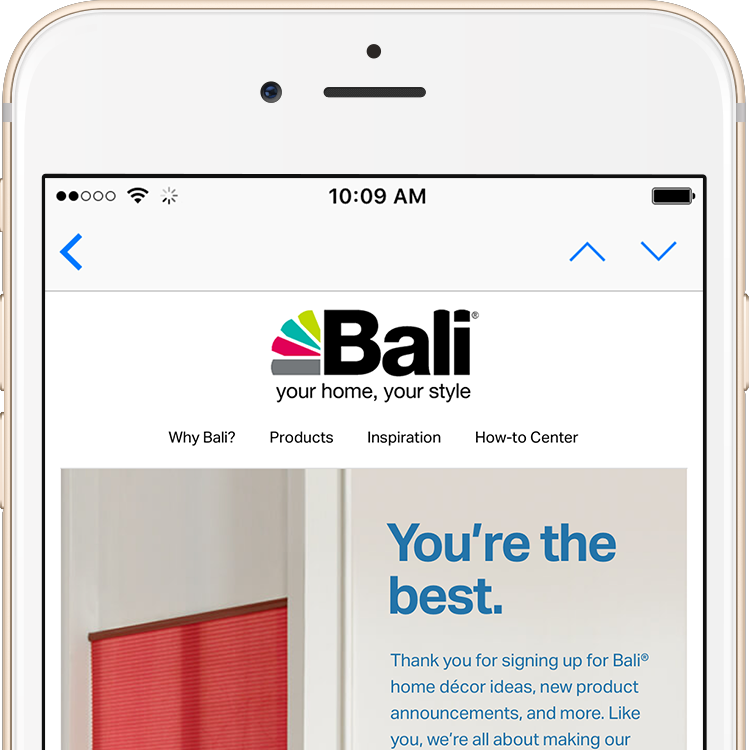
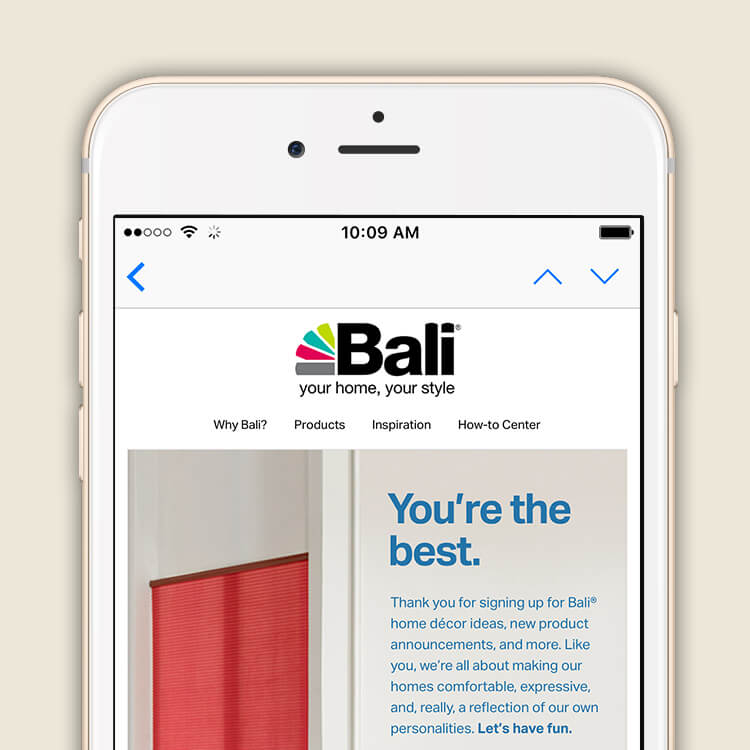
Major update of copy and optimized images

diff --git a/portfolio/graber-visualization/index.html b/portfolio/graber-visualization/index.html
@@ -1,35 +1,35 @@
 ---
 layout: project-page
 title: Graber Cellular Shades Visualization
-description: Since 1939, Graber has created extraordinary window treatments that enhance living spaces, complement an array of design styles, and delight discriminating consumers. With the beautifully efficient cellular shades product launch—the most extensive update in company history—came a strategic push to highlight the impact this product has on style, efficiency and light control. Leveraging CGI assets, this visualization tool (and the preceding questions) inspire and educate potential Graber customers about these unique qualities. 
+description: Since 1939, Graber has created extraordinary window treatments that enhance living spaces, complement an array of design styles, and delight discriminating consumers. With the beautifully efficient cellular shades product launch—the most extensive update in company history—came a strategic push to highlight the impact this product has on style, efficiency and light control. This solution illuminates these unique properties by focusing on common customer needs and providing a highly-interactive tool to visually explore unique solutions.
 next-project: fluxx
 ---
 
 <img
   sizes="(min-width:52em) 75vw, 100vw"
-  srcset="/assets/graber-visualization/cellular-shades-page-small.jpg 500w,
-          /assets/graber-visualization/cellular-shades-page-medium.jpg 750w,
-          /assets/graber-visualization/cellular-shades-page-large.jpg 1000w,
-          /assets/graber-visualization/cellular-shades-page-extralarge.jpg 1440w"
+  srcset="/assets/graber-visualization/graber-blinds-cellular-shades-page-small.jpg 500w,
+          /assets/graber-visualization/graber-blinds-cellular-shades-page-medium.jpg 750w,
+          /assets/graber-visualization/graber-blinds-cellular-shades-page-large.jpg 1000w,
+          /assets/graber-visualization/graber-blinds-cellular-shades-page-extralarge.jpg 1440w"
   alt="Graber Blinds Cellular Shades product page"
   class="project-main-image browser-mockup-outline">
 
   <img
     sizes="100vw"
-    srcset="/assets/graber-visualization/visualization-steps-1-2-small.jpg 500w,
-            /assets/graber-visualization/visualization-steps-1-2-medium.jpg 750w,
-            /assets/graber-visualization/visualization-steps-1-2-large.jpg 1000w,
-            /assets/graber-visualization/visualization-steps-1-2-extralarge.jpg 2000w"
+    srcset="/assets/graber-visualization/graber-blinds-cellular-shades-visualization-tool-steps-small.jpg 500w,
+            /assets/graber-visualization/graber-blinds-cellular-shades-visualization-tool-steps-medium.jpg 750w,
+            /assets/graber-visualization/graber-blinds-cellular-shades-visualization-tool-steps-large.jpg 1000w,
+            /assets/graber-visualization/graber-blinds-cellular-shades-visualization-tool-steps-extralarge.jpg 2000w"
     alt="Two steps that educate about two cellular shade features: cell size and light control">
 
   <img
     sizes="100vw"
-    srcset="/assets/graber-visualization/visualization-tool-small.jpg 500w,
-            /assets/graber-visualization/visualization-tool-medium.jpg 750w,
-            /assets/graber-visualization/visualization-tool-large.jpg 1000w,
-            /assets/graber-visualization/visualization-tool-extralarge.jpg 1440w"
+    srcset="/assets/graber-visualization/graber-blinds-cellular-shades-visualization-tool-small.jpg 500w,
+            /assets/graber-visualization/graber-blinds-cellular-shades-visualization-tool-medium.jpg 750w,
+            /assets/graber-visualization/graber-blinds-cellular-shades-visualization-tool-large.jpg 1000w,
+            /assets/graber-visualization/graber-blinds-cellular-shades-visualization-tool-extralarge.jpg 1440w"
     alt="Graber Blinds Cellular Shades visualization tool"
-    class="right-three-quarters browser-mockup-outline">
+    class="browser-mockup-outline">
 
 <div class="text-columns project-details little-p">
   <div class="full-width">
@@ -39,14 +39,16 @@ next-project: fluxx
   </div>
   <div class="left">
     <h3>CREDITS</h3>
-    <p>Tien Barnett, creative direction</p>
-    <p>Jacob Berchem, visual and ux design</p>
-    <p>Poornima Deveraj, ux design</p>
-    <p>Janelle Greene, copywriting</p>
-    <p>Christopher Arritt, front end development</p>
+    <p>Creative direction by Tien Barnett</p>
+    <p>UX direction by Poornima Devaraj</p>
+    <p>UX/UI design and graphic design by Jacob Berchem</p>
+    <p>Copywriting by Janelle Greene</p>
+    <p>Development by Christopher Arritt</p>
   </div>
-  <!-- <div class="right">
-    <h3>RECOGNITION</h3>
-    <p><a href="" target="_blank">American Inhouse Design Awards, GDUSA</a></p>
-  </div> -->
+  <div class="right">
+    <h3>CLIENT</h3>
+    <p>Graber Blinds, Springs Window Fashions</p>
+    <h3 id="return-space">RECOGNITION</h3>
+    <p>2016 American Inhouse Design Awards, GDUSA</p>
+  </div>
 </div>

diff --git a/portfolio/bali-emails/index.html b/portfolio/bali-emails/index.html
@@ -1,42 +1,51 @@
 ---
 layout: project-page
 title: Bali Blinds Email Campaigns
-description: Lorem ipsum dolor sit amet, consectetur adipiscing elit, sed do eiusmod tempor incididunt ut labore et dolore magna aliqua. Ut enim ad minim veniam, quis nostrud exercitation ullamco laboris nisi ut aliquip ex ea commodo consequat. Duis aute irure dolor in reprehenderit in voluptate velit esse cillum dolore eu fugiat nulla pariatur. Excepteur sint occaecat cupidatat non proident, sunt in culpa qui officia deserunt mollit anim id est laborum.
+description: A collection of transactional and promotional emails produced for Bali Blinds and Lowe's. These successful emails have lead to a 900% increase in subscribers since 2016 and have positively impacted brand engagement. With open and click thru rates nearly double the manufacturing industry average, these emails have proven to be an effective tool for the brand.
 next-project: graber-visualization
 ---
 
 <img
   sizes="(min-width:52em) 75vw, 100vw"
-  srcset="/assets/bali-emails/welcome-email-small.jpg 500w,
-          /assets/bali-emails/welcome-email-medium.jpg 750w,
-          /assets/bali-emails/welcome-email-large.jpg 1000,
-          /assets/bali-emails/welcome-email-extralarge.jpg 1750"
-  alt="Bali Blinds welcome email"
-  class="project-main-image  browser-mockup-outline">
-
-<img
-  sizes="(min-width:52em) 75vw, 100vw"
-  srcset="/assets/bali-emails/swatch-order-confirmation-small.jpg 500w,
-          /assets/bali-emails/swatch-order-confirmation-medium.jpg 750w,
-          /assets/bali-emails/swatch-order-confirmation-large.jpg 1000"
-  alt="Bali Blinds Swatch Order Confirmation email"
+  srcset="/assets/bali-emails/bali-welcome-email-small.jpg 500w,
+          /assets/bali-emails/bali-welcome-email-medium.jpg 750w,
+          /assets/bali-emails/bali-welcome-email-large.jpg 1000,
+          /assets/bali-emails/bali-welcome-email-extralarge.jpg 1750"
+  alt="Bali Blinds - Welcome email for new subscribers"
   class="portfolio-image-half left">
 
 <img
   sizes="(min-width:52em) 75vw, 100vw"
-  srcset="/assets/bali-emails/promotional-email-small.jpg 500w,
-          /assets/bali-emails/promotional-email-medium.jpg 750w,
-          /assets/bali-emails/promotional-email-large.jpg 1000"
-  alt="Bali Blinds, Lowe's promotional email"
+  srcset="/assets/bali-emails/bali-promo-email-sweet-summer-savings-small.jpg 500w,
+          /assets/bali-emails/bali-promo-email-sweet-summer-savings-medium.jpg 750w,
+          /assets/bali-emails/bali-promo-email-sweet-summer-savings-large.jpg 1000"
+  alt="Bali Blinds - Lowe's promotional email - Sweet Summer Savings"
+  class="portfolio-image-half right">
+
+<img
+  sizes="(min-width:52em) 75vw, 100vw"
+  srcset="/assets/bali-emails/bali-swatch-order-confirmation-email-small.jpg 500w,
+          /assets/bali-emails/bali-swatch-order-confirmation-email-medium.jpg 750w,
+          /assets/bali-emails/bali-swatch-order-confirmation-email-large.jpg 1000"
+  alt="Bali Blinds - Swatch Order Confirmation email"
+  class="portfolio-image-half left">
+
+<img
+  sizes="(min-width:52em) 75vw, 100vw"
+  srcset="/assets/bali-emails/bali-promo-email-one-step-away-small.jpg 500w,
+          /assets/bali-emails/bali-promo-email-one-step-away-medium.jpg 750w,
+          /assets/bali-emails/bali-promo-email-one-step-away-large.jpg 1000"
+  alt="Bali Blinds - Lowe's promotional email - One More Thing"
   class="portfolio-image-half right">
 
 <div class="text-columns project-details little-p">
   <div class="full-width">
     <div class="rule"></div>
     <h3>CREDITS</h3>
-    <p>Tien Barnett, creative direction</p>
-    <p>Megan McKay, digital marketing</p>
-    <p>Jacob Berchem, visual design, production</p>
-    <p>Jennifer Braico, copywriting</p>
+    <p>Creative direction by Tien Barnett</p>
+    <p>Design and development by Jacob Berchem</p>
+    <p>Copywriting by Jennifer Braico and Sheryl Davis-Troller</p>
+    <h3 id="return-space">CLIENT</h3>
+    <p>Bali Blinds, Springs Window Fashions</p>
   </div>
 </div>

diff --git a/portfolio/bali-redesign/index.html b/portfolio/bali-redesign/index.html
@@ -1,7 +1,7 @@
 ---
 layout: project-page
 title: Bali Blinds Redesign
-description: Bali Blinds has been providing quality window treatments since 1939. As an industry leader for Do-It-Yourselfers across America, Bali excels at giving each customer the inspiration and information they need to pick, measure and install beautiful custom blinds and shades. In 2017, the brand identity was optimized for use in digital contexts, an increasingly important part of Bali Blinds' business. This ambitious refresh started with the relaunch of baliblinds.com and will soon extend to dozens of retail e-commerce microsites and other marketing channels.
+description: Bali Blinds has been providing quality window coverings to do-it-yourselfers across North America for nearly eight decades. As an industry leader, Bali excels at giving each customer the inspiration and information they need to pick, measure and install beautiful custom blinds and shades. In 2017, the brand identity was optimized for use in digital contexts, an increasingly important part of Bali Blinds’ business model. This ambitious refresh started with the relaunch of baliblinds.com and will soon extend to dozens of retail e-commerce microsites and other marketing channels.
 next-project: frac
 ---
 
@@ -16,37 +16,37 @@ next-project: frac
 
 <img
   sizes="100vw"
-  srcset="/assets/bali-redesign/bali-blinds-product-page-small.jpg 500w,
-          /assets/bali-redesign/bali-blinds-product-page-medium.jpg 750w,
-          /assets/bali-redesign/bali-blinds-product-page-large.jpg 1000w,
-          /assets/bali-redesign/bali-blinds-product-page-extralarge.jpg 2000w"
-  alt="Bali Blinds product page">
+  srcset="/assets/bali-redesign/bali-natural-shades-product-page-small.jpg 500w,
+          /assets/bali-redesign/bali-natural-shades-product-page-medium.jpg 750w,
+          /assets/bali-redesign/bali-natural-shades-product-page-large.jpg 1000w,
+          /assets/bali-redesign/bali-natural-shades-product-page-extralarge.jpg 2000w"
+  alt="Bali Blinds Natural Shades product page">
 
 <img
   sizes="100vw"
-  srcset="/assets/bali-redesign/bali-blinds-motorization-page-small.jpg 500w,
-          /assets/bali-redesign/bali-blinds-motorization-page-medium.jpg 750w,
-          /assets/bali-redesign/bali-blinds-motorization-page-large.jpg 1000w,
-          /assets/bali-redesign/bali-blinds-motorization-page-extralarge.jpg 1440w"
+  srcset="/assets/bali-redesign/bali-motorization-page-small.jpg 500w,
+          /assets/bali-redesign/bali-motorization-page-medium.jpg 750w,
+          /assets/bali-redesign/bali-motorization-page-large.jpg 1000w,
+          /assets/bali-redesign/bali-motorization-page-extralarge.jpg 1440w"
   alt="Bali Blinds motorization page">
 
 <div class="text-columns project-details little-p">
   <div class="full-width">
     <div class="rule"></div>
-    <h3>LINKS</h3>
-    <p><a href="https://www.baliblinds.com" id="underlined-link">Bali Blinds</a></p>
+    <!-- <h3>LINKS</h3>
+    <p><a href="https://www.baliblinds.com" id="underlined-link">Bali Blinds</a></p> -->
   </div>
   <div class="left">
     <h3>CREDITS</h3>
-    <p>Tien Barnett, creative direction</p>
-    <p>Megan McKay, digital marketing</p>
-    <p>Jacob Berchem, ux/ui design, brand design</p>
-    <p>Poornima Deveraj, ux design</p>
-    <p>Janelle Greene, copywriting</p>
-    <p>Christopher Arritt, front end development</p>
+    <p>Creative direction by Tien Barnett</p>
+    <p>UX direction by Poornima Devaraj</p>
+    <p>UX/UI design and branding by Jacob Berchem</p>
+    <p>Copywriting by Janelle Greene</p>
   </div>
-  <!-- <div class="right">
-    <h3>RECOGNITION</h3>
-    <p><a href="" target="_blank">American Inhouse Design Awards, GDUSA</a></p>
-  </div> -->
+  <div class="right">
+    <h3>CLIENT</h3>
+    <p>Bali Blinds, Springs Window Fashions</p>
+    <h3 id="return-space">RECOGNITION</h3>
+    <p>2016 American Inhouse Design Awards, GDUSA</p>
+  </div>
 </div>

diff --git a/about/index.html b/about/index.html
@@ -6,10 +6,10 @@ description: I'm Jacob Berchem, a graphic designer from Wisconsin.
 
 <section class="text-columns about-text-columns little-p underlined-link">
   <div class="left">
-    <p>I recently graduated from the University of Wisconsin with a Bachelor of Fine Arts degree and a degree in computer science. At the University of Wisconsin, I discovered a passion for telling compelling stories with innovative, insightful design. I currently work as a Digital User Experience designer.</p>
+    <p>I recently graduated from the University of Wisconsin with a Bachelor of Fine Arts degree and a degree in computer science. At the University of Wisconsin, I discovered a passion for telling compelling stories with innovative, insightful design. I currently work as a Digital User Experience designer at Springs Window Fashions.</p>
     <p id="second-paragraph">I am busy volunteering with <a href="https://wisconsin.aiga.org/" target="_blank">AIGA Wisconsin</a> on projects like <a href="http://designlikemadison.com" target="_blank">Design Like Mad</a>. I have worked with a wide range of companies, from nonprofits and educational institutions, to small tech startups and industry-leading corporations.</p>
   </div>
   <div class="right">
-  <p>If you are interested in working together, I am currently accepting freelance projects. <a href="mailto:jacob.berchem@gmail.com">Reach out by email</a>.</p>
+  <p>If you’re interested in discussing a project, a collaboration or just want to say hello, <a href="mailto:jacob.berchem@gmail.com">get in touch.</a>.</p>
   <p id="second-paragraph">This site is <a href="https://github.com/jakeberkuwmad/jakeberkuwmad.github.io" target="_blank">built</a> with <a href="https://jekyllrb.com/" target="_blank">Jekyll</a>. The type is set in <a href="https://www.daltonmaag.com/library/aktiv-grotesk" target="_blank">Dalton Maag's Aktiv Grotesk</a>, while my wordmark is set in <a href="/portfolio/underwood/" target="_blank">Underwood Medium.</a></p>
 </section>

diff --git a/_includes/footer.html b/_includes/footer.html
@@ -4,7 +4,7 @@
   <div class="social-links">
     <a href="https://www.behance.net/jakeberk" target="_blank"><i class="social-icons social-icons-behance"></i></a>
     <a href="https://dribbble.com/jakeberk" target="_blank"><i class="social-icons social-icons-dribbble"></i></a>    <a href="https://www.instagram.com/jakeberk/" target="_blank"><i class="social-icons social-icons-instagram"></i></a>
-    <a href="https://twitter.com/jakeberk" target="_blank"><i class="social-icons social-icons-twitter"></i></a>
+    <!-- <a href="https://twitter.com/jakeberk" target="_blank"><i class="social-icons social-icons-twitter"></i></a> -->
     <a href="https://www.linkedin.com/in/jakeberk" target="_blank"><i class="social-icons social-icons-linkedin"></i></a>
   </div>
 </footer>

diff --git a/portfolio/frac/index.html b/portfolio/frac/index.html
@@ -32,10 +32,10 @@ case-study: frac
   </div>
   <div class="left">
     <h3>CREDITS</h3>
-    <p>Taylor Chase, reporting</p>
-    <p>Jacob Berchem, design</p>
-    <p>Kate Golden, editing</p>
-    <p>Jake Harper, music</p>
+    <p>Reporting by Taylor Chase</p>
+    <p>Editing by Kate Golden</p>
+    <p>Design and animation by Jacob Berchem</p>
+    <p>Music by Jake Harper</p>
   </div>
   <div class="right">
     <h3>CLIENT</h3>

diff --git a/portfolio/underwood/index.html b/portfolio/underwood/index.html
@@ -1,7 +1,7 @@
 ---
 layout: project-page
 title: Underwood
-description: Underwood is a monolinear typeface inspired by Soviet typography.
+description: Underwood is a monolinear typeface inspired by Soviet typography. This passion project has been ongoing since 2013, and, like all good procrastiworking projects, will likely never be "done."
 next-project: bali-redesign
 ---
 

diff --git a/_scss/layout.scss b/_scss/layout.scss
@@ -123,7 +123,7 @@ header {
   }
 
   img {
-    padding-top: $gutter;
+    margin-top: $gutter;
   }
 
   .portfolio-image-half {
